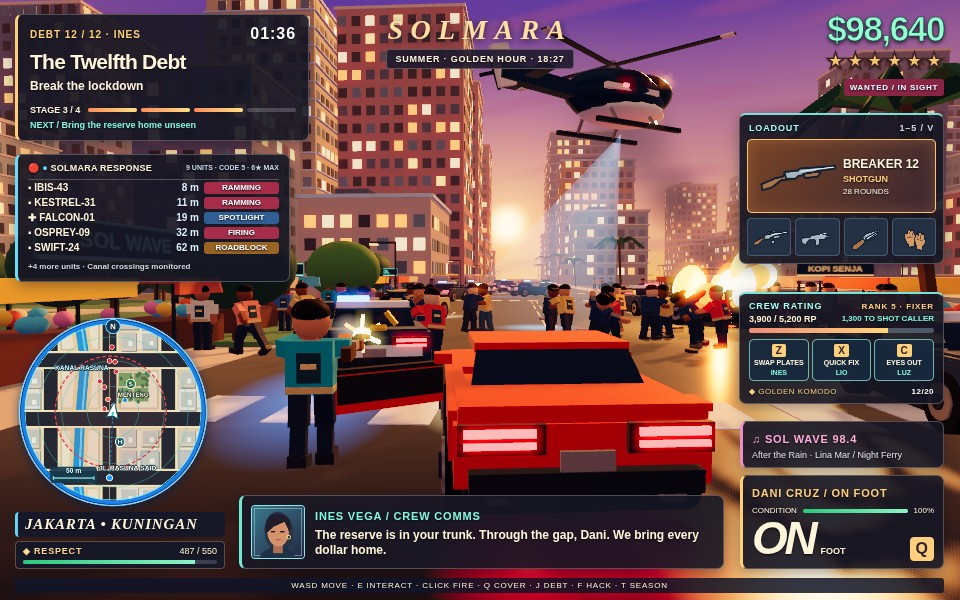
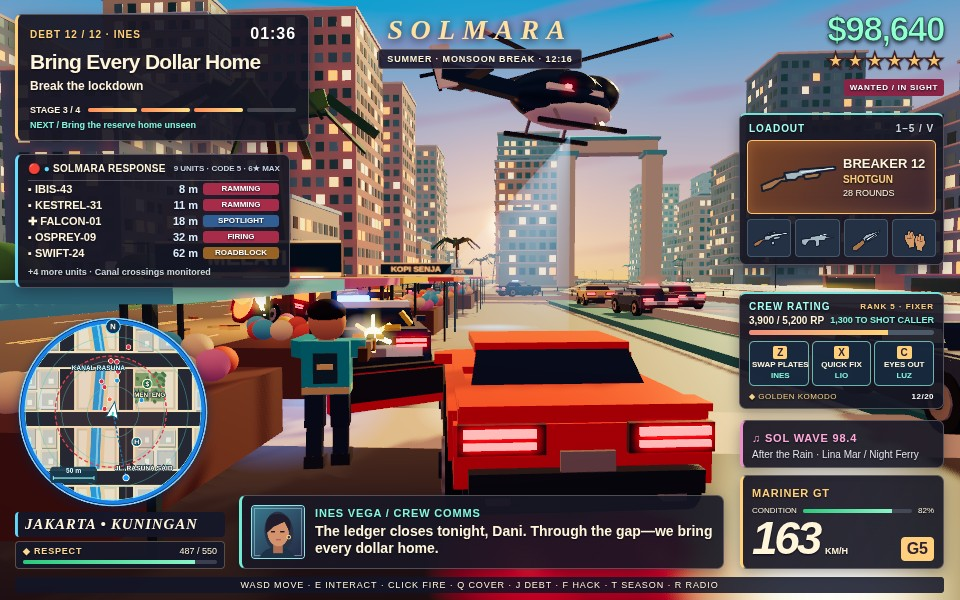
Polish Solmara hero shot and HUD readability

diff --git a/game/src/hud.js b/game/src/hud.js
@@ -97,12 +97,12 @@ function roster(game){
   set('extras',live.length>5?'+'+(live.length-5)+' more units · Canal crossings monitored':live.length?'Dispatch channel open':'No active units');
 }
 export function drawHud(game){
-  const {job,profile,vehicle,player}=game, debt=debts[job.index], active=job.status==='active';
+  const {job,profile,player}=game,vehicle=game.vehicle||(!game.shotLive?game.shotVehicle:null), debt=debts[job.index], active=job.status==='active';
   const timer=Math.max(0,Math.ceil(job.timer));
   const steps=debt?.steps||['All accounts settled'];
   const phase=clamp(job.phase,0,steps.length-1);
   const contact=debt?.contact||'Ines Vega';
-  const weather=seasons[game.season], heat=Math.ceil(game.police.heat);
+  const weather=game.shot==='summer'&&!game.shotLive?{...seasons[1],weather:'MONSOON BREAK',time:'12:16'}:seasons[game.season], heat=Math.ceil(game.police.heat);
   set('debt','DEBT '+digits(Math.min(12,job.index+1))+' / 12 · '+contact.split(' ')[0].toUpperCase());
   set('timer',active?digits(Math.floor(timer/60))+':'+digits(timer%60):job.status==='failed'?'RETRY':'J');
   set('title',debt?.title||'Twelve Debts Paid');
@@ -136,26 +136,26 @@ export function drawHud(game){
   const rp=profile.rp??3900,cap=5200,rank=rp>=5200?'SHOT CALLER':rp>=3000?'FIXER':rp>=1800?'OPERATOR':rp>=1000?'SCAVENGER':rp>=400?'WHEELMAN':'RUNNER';
   set('crewRank','RANK '+(rp>=5200?6:rp>=3000?5:rp>=1800?4:rp>=1000?3:rp>=400?2:1)+' · '+rank);set('rpValue',rp.toLocaleString('en-US')+' / '+cap.toLocaleString('en-US')+' RP');set('rpNext',rp>=cap?'TOP CREW RANK':(cap-rp).toLocaleString('en-US')+' TO SHOT CALLER');el('rpFill').style.width=Math.min(100,rp/cap*100)+'%';
   set('komodoCount',(game.shot?12:profile.komodos?.length||0)+'/20');
-  set('controls',vehicle?(vehicle.kind==='air'?'WASD THRUST & YAW · SPACE LIFT · CTRL DESCEND · E EXIT · T SEASON':'WASD DRIVE · SHIFT BOOST · SPACE DRIFT · E EXIT · J DEBT · M RADAR · R RADIO'):'WASD MOVE · E INTERACT · CLICK FIRE · Q COVER · J DEBT · F HACK · T SEASON');
+  set('controls',game.shot==='summer'&&!game.shotLive?'WASD MOVE · E INTERACT · CLICK FIRE · Q COVER · J DEBT · F HACK · T SEASON · R RADIO':vehicle?(vehicle.kind==='air'?'WASD THRUST & YAW · SPACE LIFT · CTRL DESCEND · E EXIT · T SEASON':'WASD DRIVE · SHIFT BOOST · SPACE DRIFT · E EXIT · J DEBT · M RADAR · R RADIO'):'WASD MOVE · E INTERACT · CLICK FIRE · Q COVER · J DEBT · F HACK · T SEASON');
   set('notice',game.noticeUntil>game.time?game.noticeText:'');
   roster(game);drawLoadout(game);drawRadar(el('map'),game);
 }
 function cityMap(){
-  // Original 900×560 viewBox keeps all eleven district labels undistorted; sunset colors stay in CSS.
-  const districts=[['KUNINGAN',118,80],['MENTENG',265,48],['RASUNA SAID',410,82],['SETIABUDI',520,145],['GLASS QUARTER',675,100],['CASABLANCA',595,250],['KUMALA STRAND',740,360],['PELABUHAN TUA',570,438],['RAWA MUARA',410,420],['OLD CORAL',250,380],['KEPULAUAN SERIBU',760,72]];
+  // The 900×560 viewBox keeps all eleven district labels in the island's original proportions.
+  const districts=[['KUNINGAN',118,80],['MENTENG',265,48],['RASUNA SAID',410,82],['SETIABUDI',520,145],['GLASS QUARTER',675,100],['CASABLANCA',595,250],['PALM QUAY',740,360],['PELABUHAN TUA',570,438],['RAWA MUARA',410,420],['OLD CORAL',250,380],['KEPULAUAN SERIBU',760,72]];
   return '<svg class="jakarta-map" viewBox="0 0 900 560" role="img" aria-label="Jakarta island map with pink route"><path class="map-water" d="M0 0h900v560H0z"/><path class="map-land" d="M75 66C205 22 328 58 408 43c110-20 159 25 254 7 81-15 135 18 154 78 25 82-20 109 23 178 36 59-28 121-107 133-126 20-174 85-294 38-112-44-201-40-279-91-83-54-111-115-82-183 22-53 3-96-2-137z"/><path class="map-road" d="M100 145L295 108 460 130 650 95 789 176M130 285L289 252 443 273 599 238 770 292M148 414L302 374 430 402 604 370 768 417M227 70L210 477M393 46L401 498M553 63L539 475M680 83L692 481"/><path class="map-route" d="M104 431C175 377 189 300 278 265S388 153 469 189s74 109 146 129 84 34 141 66"/><circle class="map-pin" cx="104" cy="431" r="9"/><circle class="map-pin" cx="790" cy="384" r="9"/>'+districts.map(([n,x,y])=>'<g class="map-label" transform="translate('+x+' '+y+')"><circle r="4"/><text x="8" y="4">'+n+'</text></g>').join('')+'</svg>';
 }
 export function drawRecords(game){
   const p=game.profile,done=game.statsShot?12:Math.min(12,p.done||0),cash=game.statsShot?98640:p.cash||0;
   const career=game.statsShot?{carsStolen:26,copsEscaped:14,distanceKm:83.6}:p.career||{};
-  const checklist=['Twelve Debts','Kuningan safehouse','Menteng market lead','Rasuna Said relay','Setiabudi archive','Glass Quarter rooftop','Casablanca night run','Kumala Strand escape','Pelabuhan Tua freight','Rawa Muara canal','Old Coral snowfall','Kepulauan Seribu flight','Swap Plates crew skill','Quick Fix crew skill','Eyes Out crew skill','Golden Komodo cache','Six-star response','All seasons visited'];
+  const checklist=['Twelve Debts','Kuningan safehouse','Menteng market lead','Rasuna Said relay','Setiabudi archive','Glass Quarter rooftop','Casablanca night run','Palm Quay escape','Pelabuhan Tua freight','Rawa Muara canal','Old Coral snowfall','Kepulauan Seribu flight','Swap Plates crew skill','Quick Fix crew skill','Eyes Out crew skill','Golden Komodo cache','Six-star response','All seasons visited'];
   const rows=checklist.map((label,i)=>{const complete=i<done||i===12&&(p.abilityUses?.z||0)>0||i===13&&(p.abilityUses?.x||0)>0||i===14&&(p.abilityUses?.c||0)>0||i===15&&(p.komodos?.length||0)>=20||i===16&&(p.maxHeat||0)>=6||i===17&&(p.seasonsPlayed?.length||0)>=4;return '<li class="check-row '+(complete?'complete':'')+'"><i></i><span>'+label+'</span><b>'+(complete?'DONE':i===15?(p.komodos?.length||0)+'/20':'OPEN')+'</b></li>';}).join('');
   const grades=game.statsShot?Array.from({length:12},(_,i)=>i%3===0?'G':'S'):(p.ratings||[]);
   const ratings=Array.from({length:12},(_,i)=>'<span class="rating '+(grades[i]?'gold':'')+'">'+String(i+1).padStart(2,'0')+'<b>'+(grades[i]||'—')+'</b></span>').join('');
   const slots=game.statsShot?[{done:12,cash:98640,season:0},{done:8,cash:54200,season:2},{done:3,cash:12450,season:1}]:loadSlots();
   const saveItems=Array.from({length:3},(_,i)=>{const slot=slots[i],mode=slot?'load':'save';return '<div><b>SLOT '+(i+1)+'</b><small>'+(slot?Math.min(12,slot.done||0)+'/12 · '+dollars(slot.cash||0)+' · '+['SUMMER','SPRING','AUTUMN','WINTER'][slot.season||0]:'EMPTY · NO SAVE')+'</small><button data-stats-slot="'+i+'" data-mode="'+mode+'">'+(slot?'LOAD':'SAVE')+'</button></div>';}).join('');
   const rp=p.rp??3900,rankLevel=rp>=5200?6:rp>=3000?5:rp>=1800?4:rp>=1000?3:rp>=400?2:1,rank=rankLevel===6?'SHOT CALLER':'FIXER';
-  el('statsPanel').innerHTML='<header class="stats-head"><div><small>SOLMARA CITY RECORDS</small><h1>PROGRESSION</h1></div><strong>'+dollars(cash)+'</strong><button data-stats="back">ESC · BACK</button></header><div class="stats-body"><section class="stats-map panel"><h2>JAKARTA ISLAND <small>11 DISTRICTS · PINK ROUTE</small></h2>'+cityMap()+'<footer>◆ ROUTE ACTIVE · KUNINGAN → KUMALA STRAND</footer></section><aside class="stats-column"><section class="panel completion"><h2>CITY COMPLETION</h2><div class="completion-ring" style="--pct:'+done/12*100+'%"><b>'+done+'/12</b><small>DEBTS</small></div><p>CRIMINAL PROFILE <strong>DANI CRUZ</strong></p><p>RANK '+rankLevel+' '+rank+' · '+rp.toLocaleString('en-US')+' / 5,200 RP</p></section><section class="panel totals"><h2>CAREER TOTALS</h2><div><span><b>'+(career.carsStolen||0)+'</b><small>CARS STOLEN</small></span><span><b>'+(career.copsEscaped||0)+'</b><small>COPS ESCAPED</small></span><span><b>'+Number(career.distanceKm||0).toFixed(1)+' km</b><small>DISTANCE DRIVEN</small></span></div></section><section class="panel ratings"><h2>MISSION RATINGS 01–12</h2><div>'+ratings+'</div></section><section class="panel checklist"><h2>CASE CHECKLIST <small>18 RECORDS</small></h2><ol>'+rows+'</ol></section><section class="panel save-records"><h2>SAVE SLOTS</h2><div class="save-grid">'+saveItems+'</div></section></aside></div>';
+  el('statsPanel').innerHTML='<header class="stats-head"><div><small>SOLMARA CITY RECORDS</small><h1>PROGRESSION</h1></div><strong>'+dollars(cash)+'</strong><button data-stats="back">ESC · BACK</button></header><div class="stats-body"><section class="stats-map panel"><h2>JAKARTA ISLAND <small>11 DISTRICTS · PINK ROUTE</small></h2>'+cityMap()+'<footer>◆ ROUTE ACTIVE · KUNINGAN → PALM QUAY</footer></section><aside class="stats-column"><section class="panel completion"><h2>CITY COMPLETION</h2><div class="completion-ring" style="--pct:'+done/12*100+'%"><b>'+done+'/12</b><small>DEBTS</small></div><p>CRIMINAL PROFILE <strong>DANI CRUZ</strong></p><p>RANK '+rankLevel+' '+rank+' · '+rp.toLocaleString('en-US')+' / 5,200 RP</p></section><section class="panel totals"><h2>CAREER TOTALS</h2><div><span><b>'+(career.carsStolen||0)+'</b><small>CARS STOLEN</small></span><span><b>'+(career.copsEscaped||0)+'</b><small>COPS ESCAPED</small></span><span><b>'+Number(career.distanceKm||0).toFixed(1)+' km</b><small>DISTANCE DRIVEN</small></span></div></section><section class="panel ratings"><h2>MISSION RATINGS 01–12</h2><div>'+ratings+'</div></section><section class="panel checklist"><h2>CASE CHECKLIST <small>18 RECORDS</small></h2><ol>'+rows+'</ol></section><section class="panel save-records"><h2>SAVE SLOTS</h2><div class="save-grid">'+saveItems+'</div></section></aside></div>';
   el('statsPanel').querySelector('[data-stats="back"]').onclick=()=>game.showScreen('menu');
   el('statsPanel').querySelectorAll('[data-stats-slot]').forEach(button=>button.onclick=()=>game.selectSlot(Number(button.dataset.statsSlot),button.dataset.mode));
 }

diff --git a/game/src/hud.css b/game/src/hud.css
@@ -19,12 +19,12 @@ small{font-size:9px;font-weight:700}
 #dispatch{position:absolute;top:154px;left:15px;width:275px;border-left:3px solid #69ddff;padding:8px 10px}
 #dispatch header{border-bottom:1px solid #bbb3ba5a;padding-bottom:6px;white-space:nowrap;letter-spacing:.06em}
 #dispatch i{color:#5ddeff;font-style:normal} #units{font-size:9px;color:#c6d5e4}
-#dispatch header{letter-spacing:.025em;font-size:9px}#dispatch #units{font-size:7px;letter-spacing:0}
-.unit{display:grid;grid-template-columns:1fr 37px 75px;align-items:center;gap:5px;font-size:10px;line-height:15px;font-weight:700}
+#dispatch header{letter-spacing:.025em;font-size:10px}#dispatch #units{font-size:8px;letter-spacing:0}
+.unit{display:grid;grid-template-columns:1fr 39px 76px;align-items:center;gap:5px;font-size:11px;line-height:16px;font-weight:700}
 .unit span:nth-child(2){text-align:right;color:#dbeeff;font-variant-numeric:tabular-nums}
 .unit b{font-size:8px;line-height:12px;text-align:center;border-radius:3px;background:#3c4172;color:#fff}
 .unit b.danger{background:#a72c4a}.unit b.air{background:#305e95}.unit b.block{background:#986324}
-#extras{color:#cdd8d8;font-size:8px}
+#extras{color:#cdd8d8;font-size:9px}
 #mast{position:absolute;left:34%;right:34%;top:14px;text-align:center}
 #mast strong{font:bold italic 28px Georgia,serif;color:#ffe0a1;letter-spacing:.26em;text-shadow:0 2px 9px #1b122c}
 #weather{display:table;margin:3px auto;background:#1e192de6;padding:4px 8px;border:1px solid #ffebc343;border-radius:3px;white-space:nowrap;letter-spacing:.09em}
@@ -33,10 +33,10 @@ small{font-size:9px;font-weight:700}
 #stars{font:900 22px/30px Georgia;color:#f6c66e;-webkit-text-stroke:.8px #3b1e27;letter-spacing:0}
 #sight{background:#892447;color:#fff;padding:4px 6px;border-radius:3px;font-size:8px;font-weight:bold;letter-spacing:.09em}
 #loadout{position:absolute;right:16px;top:113px;width:205px;border-top:2px solid #78e1d9;padding:7px}
-#loadout header{color:#a5fff0;font-size:9px;margin:1px 2px 6px} #loadout header span{color:#d3d9e0}
+#loadout header{color:#a5fff0;font-size:10px;margin:1px 2px 6px} #loadout header span{color:#d3d9e0}
 #selected{height:74px;display:flex;gap:4px;align-items:center;background:linear-gradient(124deg,#784326,#3a2631);border:1px solid #ffc16c;border-radius:5px;padding:5px;box-shadow:inset 0 0 13px #fda35245}
 #selected canvas{width:86px;height:46px}
-#selected strong{font-size:12px;display:block;white-space:nowrap} #selected small{color:var(--gold);display:block;margin-top:3px} #selected em{font-size:8px;color:#fff9e1;font-style:normal;display:block;margin-top:3px}
+#selected strong{font-size:13px;display:block;white-space:nowrap} #selected small{font-size:10px;color:var(--gold);display:block;margin-top:3px} #selected em{font-size:9px;color:#fff9e1;font-style:normal;display:block;margin-top:3px}
 #alternates{display:flex;justify-content:space-between;margin-top:5px;gap:4px}
 #alternates span{display:grid;place-items:center;flex:1;height:38px;border-radius:4px;background:#243144;border:1px solid #95bdd348}
 #alternates canvas{width:39px;height:27px}
@@ -50,17 +50,18 @@ small{font-size:9px;font-weight:700}
 #dialogue{position:absolute;left:239px;right:236px;bottom:31px;display:flex;align-items:center;gap:10px;min-height:74px;padding:7px 9px;border-left:3px solid #71edd7}
 #portrait{width:54px;height:54px;border:1px solid #91e4e9;border-radius:4px}
 #contact,#radio strong,#telemetry>strong{font-size:11px;letter-spacing:.075em;color:var(--aqua)}
-#line{font-size:12px;font-weight:700;line-height:1.24;margin-top:4px}
+#contact{display:block}
+#line{font-size:14px;font-weight:700;line-height:1.24;margin-top:4px}
 #rightfoot{position:absolute;right:16px;bottom:31px;width:204px;display:grid;gap:7px}
 #radio{padding:7px 9px;border-left:3px solid #ea8dca} #radio strong{color:#ffa9d9}
-#track{font-size:9px;color:#e2e2e9;margin-top:3px}
+#track{font-size:10px;color:#e2e2e9;margin-top:3px}
 #telemetry{border-left:3px solid var(--gold);padding:7px 9px} #telemetry>strong{color:var(--gold)}
 .condition{display:grid;grid-template-columns:auto 1fr auto;align-items:center;gap:6px;font-size:8px;margin-top:5px} .condition i{grid-column:auto}
 .gauge{display:flex;align-items:baseline;gap:4px;margin-top:1px}
 #speed{font:900 italic 46px/.96 Arial;letter-spacing:-.07em}
 #speedUnit{font-size:9px;font-weight:bold;margin-left:2px}
 #gear{margin-left:auto;background:#ffcf7d;color:#2d2133;text-shadow:none;font-size:16px;border-radius:4px;padding:3px 6px}
-#controls{position:absolute;bottom:7px;left:15px;right:16px;text-align:center;padding:3px;border-radius:3px;background:#101427d9;font-size:8px;letter-spacing:.1em}
+#controls{position:absolute;bottom:7px;left:15px;right:16px;text-align:center;padding:3px;border-radius:3px;background:#101427d9;font-size:9px;letter-spacing:.1em}
 #notice{position:absolute;bottom:120px;left:27%;right:27%;text-align:center;font-weight:800;color:#fff2c2}
 #notice:not(:empty){padding:7px;background:#141929e8;border-radius:4px}
 .overlay{position:absolute;inset:0;display:grid;place-items:center;background:#121428ad;overflow:auto;padding:12px}
@@ -84,11 +85,11 @@ button:focus-visible{outline:3px solid var(--aqua)}.hidden{display:none}
 
 /* R7 structure in the approved R6 visual language. */
 #crewHud{position:absolute;right:16px;top:300px;width:205px;padding:7px 9px;border-top:2px solid #78e1d9}
-#crewHud header{color:#a5fff0;font-size:9px;margin-bottom:3px}
+#crewHud header{color:#a5fff0;font-size:10px;margin-bottom:3px}
 #crewHud header span{color:var(--gold);font-size:8px}
-.rp-line{display:flex;justify-content:space-between;color:#fff4d5;font-size:9px;font-weight:800}.rp-line span:last-child{color:var(--aqua);font-size:8px}
+.rp-line{display:flex;justify-content:space-between;color:#fff4d5;font-size:10px;font-weight:800}.rp-line span:last-child{color:var(--aqua);font-size:9px}
 .rp-track{height:5px;border-radius:5px;background:#4c5968;margin:4px 0 6px;overflow:hidden}.rp-track i{display:block;height:100%;background:linear-gradient(90deg,#ef8d7a,#ffd477)}
-.ability-cards{display:grid;grid-template-columns:repeat(3,1fr);gap:3px}.ability-cards button{display:grid;gap:2px;min-width:0;padding:4px 2px;margin:0;background:#192a3eee;border:1px solid #6db5af;color:var(--ink);font-size:7px;line-height:1.1}.ability-cards button:hover{background:#29465b}.ability-cards kbd{justify-self:center;background:var(--gold);color:#2d2133;border-radius:2px;padding:1px 4px;font:bold 10px Arial}.ability-cards b{font-size:7px;white-space:nowrap}.ability-cards small{font-size:7px;color:var(--aqua)}
+.ability-cards{display:grid;grid-template-columns:repeat(3,1fr);gap:3px}.ability-cards button{display:grid;gap:2px;min-width:0;padding:4px 2px;margin:0;background:#192a3eee;border:1px solid #6db5af;color:var(--ink);font-size:8px;line-height:1.1}.ability-cards button:hover{background:#29465b}.ability-cards kbd{justify-self:center;background:var(--gold);color:#2d2133;border-radius:2px;padding:1px 4px;font:bold 10px Arial}.ability-cards b{font-size:8px;white-space:nowrap}.ability-cards small{font-size:8px;color:var(--aqua)}
 #komodo{font-size:8px;color:#f5d481;letter-spacing:.06em;margin-top:6px}#komodo b{float:right;color:#fff}
 #searchCircle{display:none;width:10px;height:10px;margin-left:0;border:1px dashed #ff7c68;border-radius:50%;vertical-align:-2px;opacity:0;transition:opacity .2s;animation:searchPulse 1.7s ease-in-out infinite}@keyframes searchPulse{50%{transform:scale(1.12);opacity:.7}}#searchCircle.active{display:inline-block;opacity:1}
 /* The title layer keeps the original R6 scene palette behind the new menu structure. */
@@ -152,8 +153,8 @@ body[data-screen=menu] #hud,body[data-screen=stats] #hud,body[data-screen=wanted
 /* Reserve room for totals and wrapped save text; keep records legible at 960×600. */
 #stats .stats-body{grid-template-rows:132px 72px 80px minmax(118px,1fr) 80px}
 #stats .totals>div span,#stats .totals>div span small{font-size:8px}
-#stats .check-row{font-size:8px}
-#stats .check-row b{font-size:7px}
+#stats .check-row{font-size:9px}
+#stats .check-row b{font-size:8px}
 #stats .save-grid b{font-size:8px}
 #stats .save-grid small{font-size:7px}
 #stats .save-grid button{font-size:8px}

diff --git a/game/src/scenes.js b/game/src/scenes.js
@@ -20,6 +20,29 @@ function lead(game,v,kmh,hp){
   Object.assign(game.player,{x:v.x,y:v.y,z:v.z,heading:v.heading});
   game.player.mesh.visible=false;syncVehicle(v,game.time);
 }
+function lockSign(scene,x,y,z){
+  const canvas=document.createElement('canvas');canvas.width=768;canvas.height=128;
+  const ctx=canvas.getContext('2d');
+  ctx.fillStyle='#14283b';ctx.fillRect(0,0,768,128);
+  ctx.fillStyle='#69e6d6';ctx.fillRect(0,0,768,9);ctx.fillRect(0,118,768,10);
+  ctx.font='bold 76px Arial';ctx.textAlign='center';ctx.textBaseline='middle';ctx.fillStyle='#fff0c5';
+  ctx.fillText('RASUNA LOCK',384,65);
+  const texture=new T.CanvasTexture(canvas);texture.colorSpace=T.SRGBColorSpace;
+  const face=new T.MeshBasicMaterial({map:texture});
+  const sign=boxAt(scene,face,x,y,z,16,2.7,.18);sign.castShadow=false;
+}
+function rasunaLock(scene){
+  const x=-36,z=116,stone=material(0xd8c8a3,.62),trim=material(0x4c8f91,.4,.12),lamp=material(0xf8d378,.3,1.4);
+  for(const side of [-1,1]){
+    boxAt(scene,stone,x+side*8.1,13,z,3.1,26,3.8);
+    boxAt(scene,trim,x+side*8.1,25.6,z,4.3,.82,4.7);
+    boxAt(scene,lamp,x+side*8.1,27,z+2.05,.46,.46,.25);
+    boxAt(scene,stone,x+side*8.1,2.2,z,4.3,.72,5.1);
+  }
+  boxAt(scene,stone,x,26.8,z,17.4,2.2,3.9);
+  boxAt(scene,trim,x,28.3,z,18.4,.42,4.6);
+  lockSign(scene,x,28.35,z+2.05);
+}
 function stageSummerExit(game,car,target){
   // The frozen hero frame retains the chase telemetry and radar anchor.
   const door=model(car.mesh,1.22,.68,.95);
@@ -32,11 +55,12 @@ function stageSummerExit(game,car,target){
   boxAt(door,trim,0,.52,-.85,.14,.06,1.75);
   boxAt(door,material(0xc2b1a5,.24),.075,.42,-1.48,.035,.048,.23);
 
-  const dani=human(game.scene,car.x+2.85,car.z-.45,{color:0x39a7a6,armed:true});
+  const dani=human(game.scene,car.x+2.65,car.z-.45,{color:0x39a7a6,armed:true});
   dani.mesh.name='Summer Dani on foot';
   dani.heading=bearing(dani,target);
   pose(dani,game.time);
   game.shotAnchor={x:game.player.x,z:game.player.z};
+  game.shotVehicle=car;
   Object.assign(game.player,dani);
   game.vehicle=null;
   const muzzle=dani.gun.localToWorld(new T.Vector3(0,.062,.655));
@@ -55,21 +79,26 @@ export function stageScene(game,name){
   const {scene,player}=game;
   if(name==='summer'){
     prepare(game,11,2,96,98640,487);game.season=1;
-    const car=put(game,1.4,9,0xf13428,.13);
+    const car=put(game,-18.6,9,0xf13428,.13);
     lead(game,car,163,82);
     raise(game,6);
-    const nearestPatrol=addPatrol(game,5.3,16,'RAMMING',.25);
-    addPatrol(game,-6.2,12.2,'RAMMING',-.10);
-    addAirSupport(game,-2.0,8.5,24).heading=-1.02;
-    addPatrol(game,-6.3,39,'FIRING',.21);
-    addPatrol(game,6.8,70,'ROADBLOCK',1.2);
-    addPatrol(game,0,71,'ROADBLOCK',-1);
-    addPatrol(game,-12,46,'SEARCHING',.25);
-    addPatrol(game,8.3,58,'PURSUIT',-.25);
+    const nearestPatrol=addPatrol(game,-14.7,16,'RAMMING',.25);
+    addPatrol(game,-26.2,12.2,'RAMMING',-.10);
+    addAirSupport(game,-20.0,8.5,24).heading=-1.02;
+    addPatrol(game,-26.3,39,'FIRING',.21);
+    addPatrol(game,-11.2,70,'ROADBLOCK',1.2);
+    addPatrol(game,-18.6,71,'ROADBLOCK',-1);
+    addPatrol(game,-30,46,'SEARCHING',.25);
+    addPatrol(game,-9.7,58,'PURSUIT',-.25);
     addPatrol(game,3,88,'PURSUIT',.07);
-    confrontation(game,21);
-    put(game,7.4,33,0xe8c975,-.35);
-    put(game,-6.3,51,0xf5c070,.05);
+    const incident=confrontation(game,21);
+    incident.fighters.forEach(person=>person.mesh.visible=false);
+    game.life.people.forEach(person=>person.mesh.visible=false);
+    const lookout=human(scene,-12.2,24.5,{color:0xe8a74f,shade:2,heading:-1.35});
+    lookout.mesh.name='Lio Santos · lookout';pose(lookout,game.time);
+    put(game,-11.2,33,0xe8c975,-.35);
+    put(game,-24.9,51,0xf5c070,.05);
+    rasunaLock(scene);
     stageSummerExit(game,car,nearestPatrol);
   }else if(name==='spring'){
     prepare(game,2,1,134,12450,180);game.season=0;

diff --git a/game/src/debts.js b/game/src/debts.js
@@ -16,7 +16,7 @@ const missions=[
   ['Night Freight','Tomás Ruiz',180,2100,'convoy',[[144,72]],['Find the reserve van','Disable the van','Collect both cash cases'],'They split the cash into two cases. Bring both.'],
   ['The Last Broadcast','Luz Moreno',180,2300,'hold',[[0,72]],['Find the transmitter','Defend the first wave','Defend the second wave'],'Keep the transmitter alive. Everybody gets to hear this.'],
   ['All Roads Lead Home','Mara Sol',126,2400,'drive',[[0,0],[72,0],[72,72],[0,72]],['Bring a working car','Run four crew checkpoints','Keep the engine alive'],'Four intersections. Make every light and don’t lose the car.'],
-  ['The Twelfth Debt','Ines Vega',280,12500,'vault',[[0,72],[0,-72]],['Clear six reserve guards','Hold F · Crack the vault','Break the lockdown','Bring the reserve home unseen'],'The reserve is in your trunk. Through the gap, Dani. We bring every dollar home.']
+  ['Bring Every Dollar Home','Ines Vega',280,12500,'vault',[[0,72],[0,-72]],['Clear six reserve guards','Hold F · Crack the vault','Break the lockdown','Bring the reserve home unseen'],'The ledger closes tonight, Dani. Through the gap—we bring every dollar home.']
 ];
 export const debts=missions.map(([title,contact,seconds,reward,mode,stops,steps,dialogue])=>({title,contact,seconds,reward,mode,stops:stops.map(point),steps,dialogue}));
 export const newJob=(index=0)=>({index,status:index>=12?'complete':'available',phase:0,timer:debts[index]?.seconds||0,progress:0,spawned:false,checkpoint:0,courier:null,cases:[],message:''});

diff --git a/game/src/lighting.js b/game/src/lighting.js
@@ -98,9 +98,10 @@ export function createLight(scene) {
   dust.frustumCulled=false;scene.add(dust);
   return {sky,uniforms,ambient,key,scene,positions,seed,dust};
 }
-export function updateLight(light,season,player,camera,time){
+export function updateLight(light,season,player,camera,time,summerShowcase=false){
   const {sky,uniforms,ambient,key,scene,positions,seed,dust}=light;
-  const palette=seasons[season];
+  const palette=season===1&&summerShowcase
+    ?{sky:0x278dcc,horizon:0xffb86d,fog:0x78c7bf,sun:0xffe6a1,light:3.35}:seasons[season];
   uniforms.high.value.setHex(palette.sky);uniforms.low.value.setHex(palette.horizon);
   uniforms.light.value.set(.014,.085,1).normalize();uniforms.night.value=season===3?1:0;
   sky.position.copy(camera.position);
@@ -108,7 +109,8 @@ export function updateLight(light,season,player,camera,time){
   key.color.setHex(palette.sun);key.intensity=palette.light;
   key.position.set(player.x-43,player.y+49,player.z+82);
   key.target.position.set(player.x,Math.max(0,player.y-32),player.z);
-  scene.fog.color.setHex(palette.fog);scene.fog.density=season===3?.004:.00265;
+  scene.fog.color.setHex(palette.fog);
+  scene.fog.density=season===3 ? .004 : season===1 && summerShowcase ? .0019 : .00265;
   dust.visible=season!==1;
   if(dust.visible){
     dust.material.color.setHex([0xffbbd9,0xffffff,0xffb654,0xf5fbff][season]);

diff --git a/game/src/game.js b/game/src/game.js
@@ -310,7 +310,7 @@ function renderFrame(now){
   if(game.started&&!game.paused&&!frozen)advance(dt);
   updateCamera(Math.max(.01,dt));
   const staticScreen=['menu','stats','wanted'].includes(game.screen);
-  if(!staticScreen)updateLight(light,game.season,player,game.camera,game.time);
+  if(!staticScreen)updateLight(light,game.season,player,game.camera,game.time,game.shot==='summer'&&!game.shotLive);
   if(now>=nextHud&&!staticScreen){drawHud(game);nextHud=now+70;}
   if(!staticScreen&&(!frozen||!ready))game.draw();
   sound.update(game);
